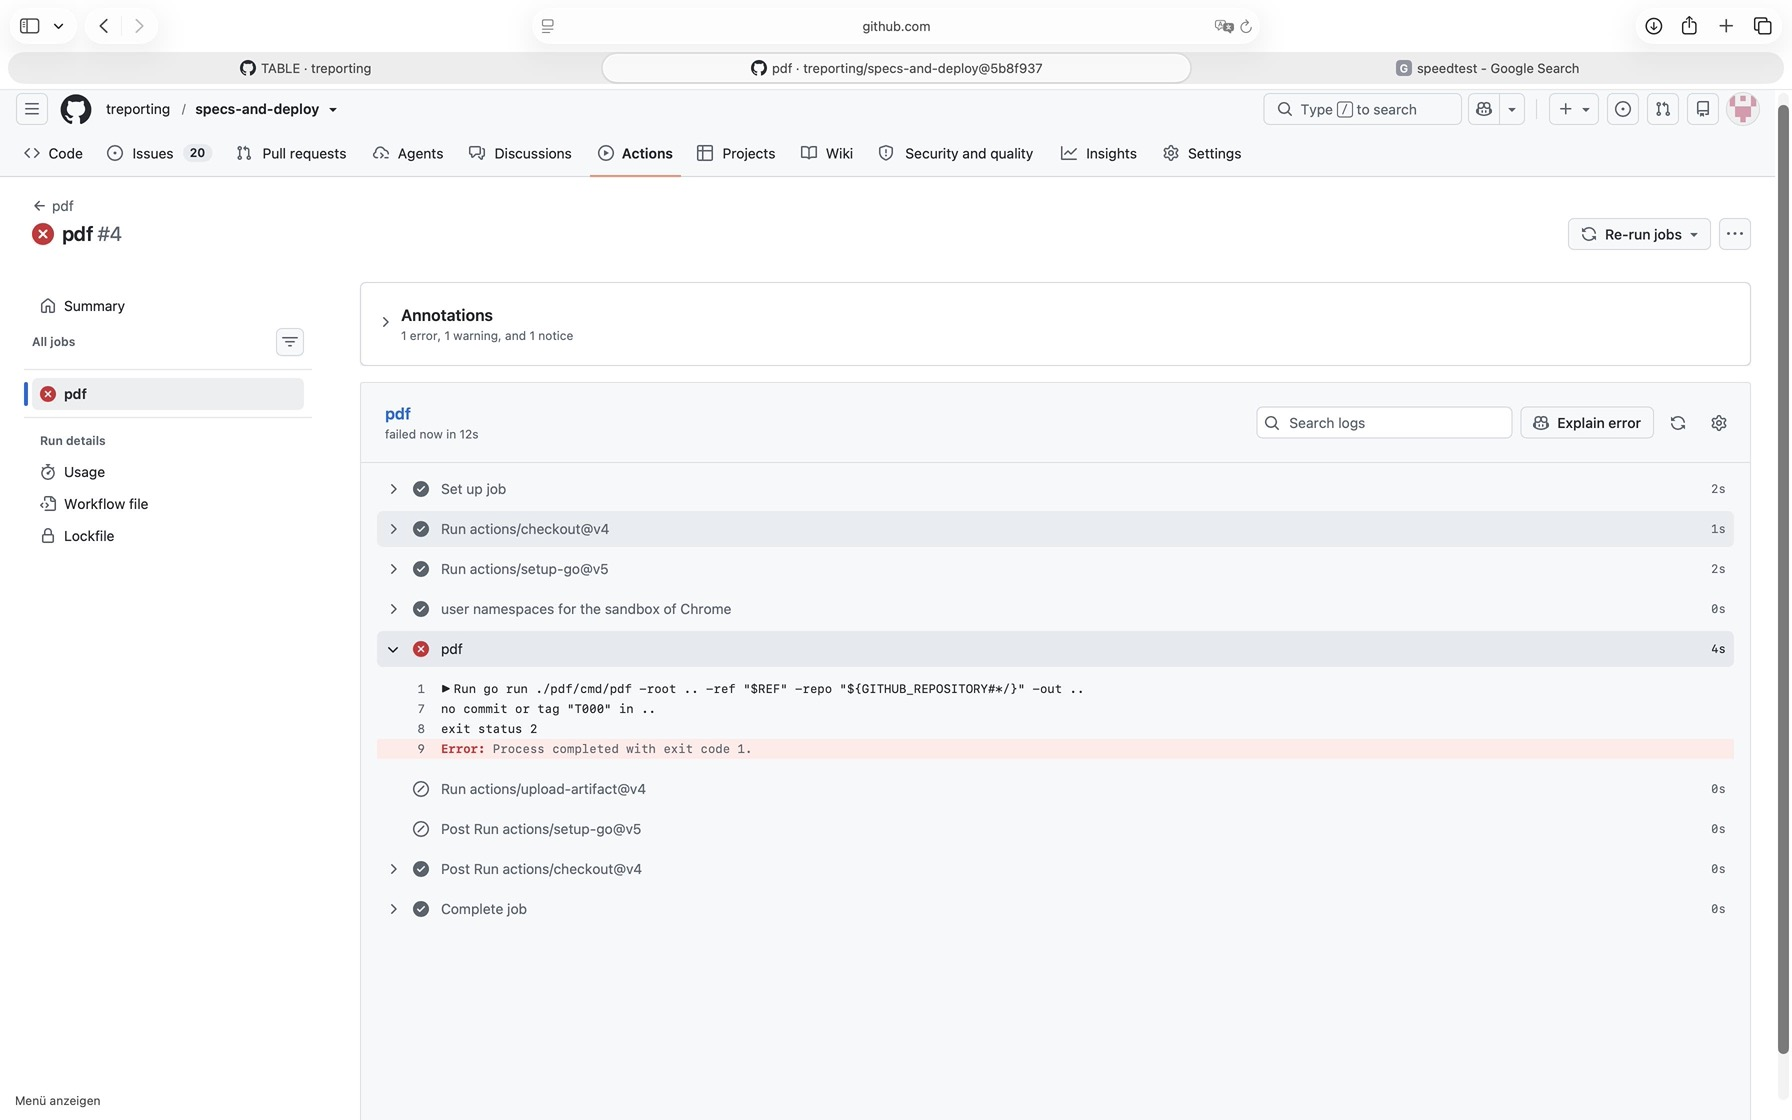
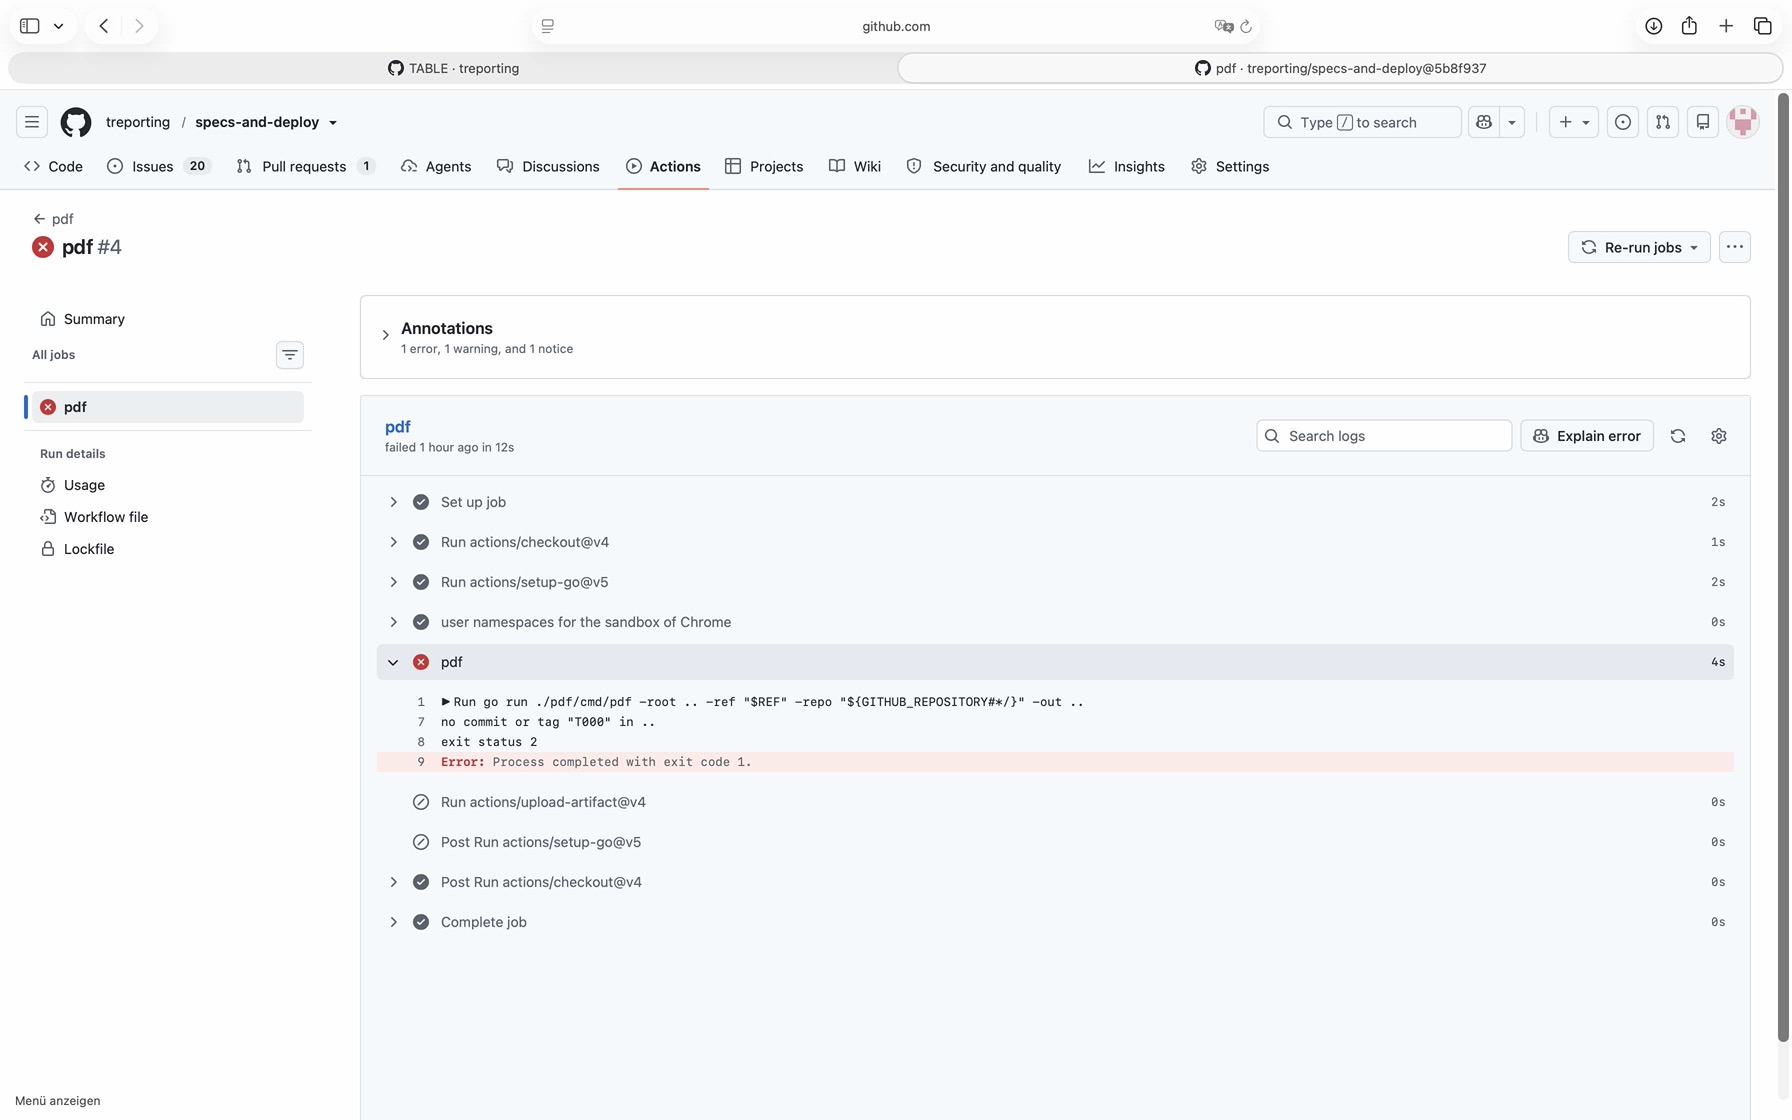
Replace the screenshots of the pdf demonstration by ones without private tabs
Part of #392

diff --git a/verifications/20261101T205807_pdf.md b/verifications/20261101T205807_pdf.md
@@ -29,9 +29,9 @@ it fails and keeps no artifact.
 
 ## Observed
 
-The form, with `T044`:
+The form, where the commit or tag is typed in:
 
-![Run workflow from main, the commit or tag T044](20261101T205807_pdf_form.jpg)
+![Run workflow from main, the field the commit or tag](20261101T205807_pdf_form.jpg)
 
 The run 41344400794 at `5b8f937` passed; from the log of its step pdf:
 
